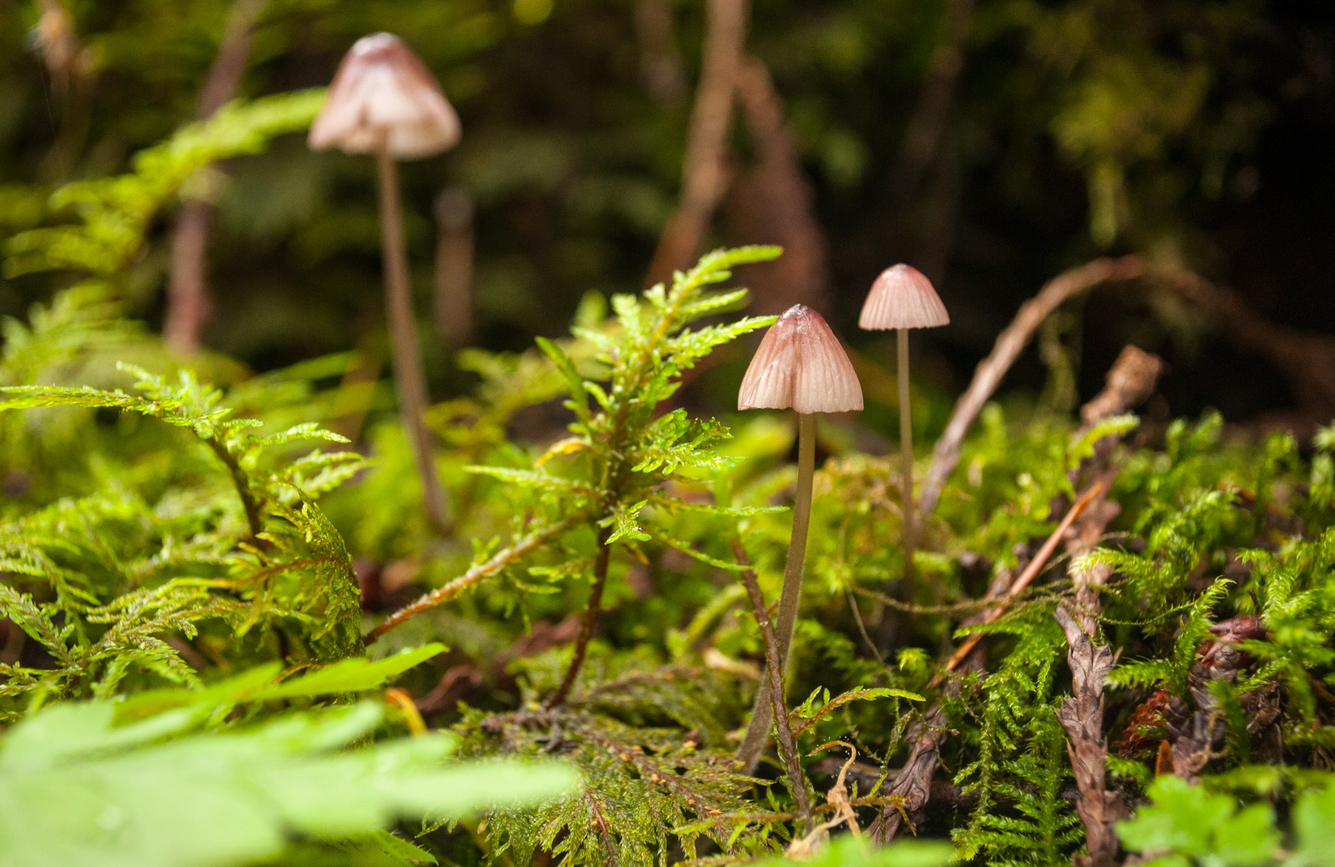
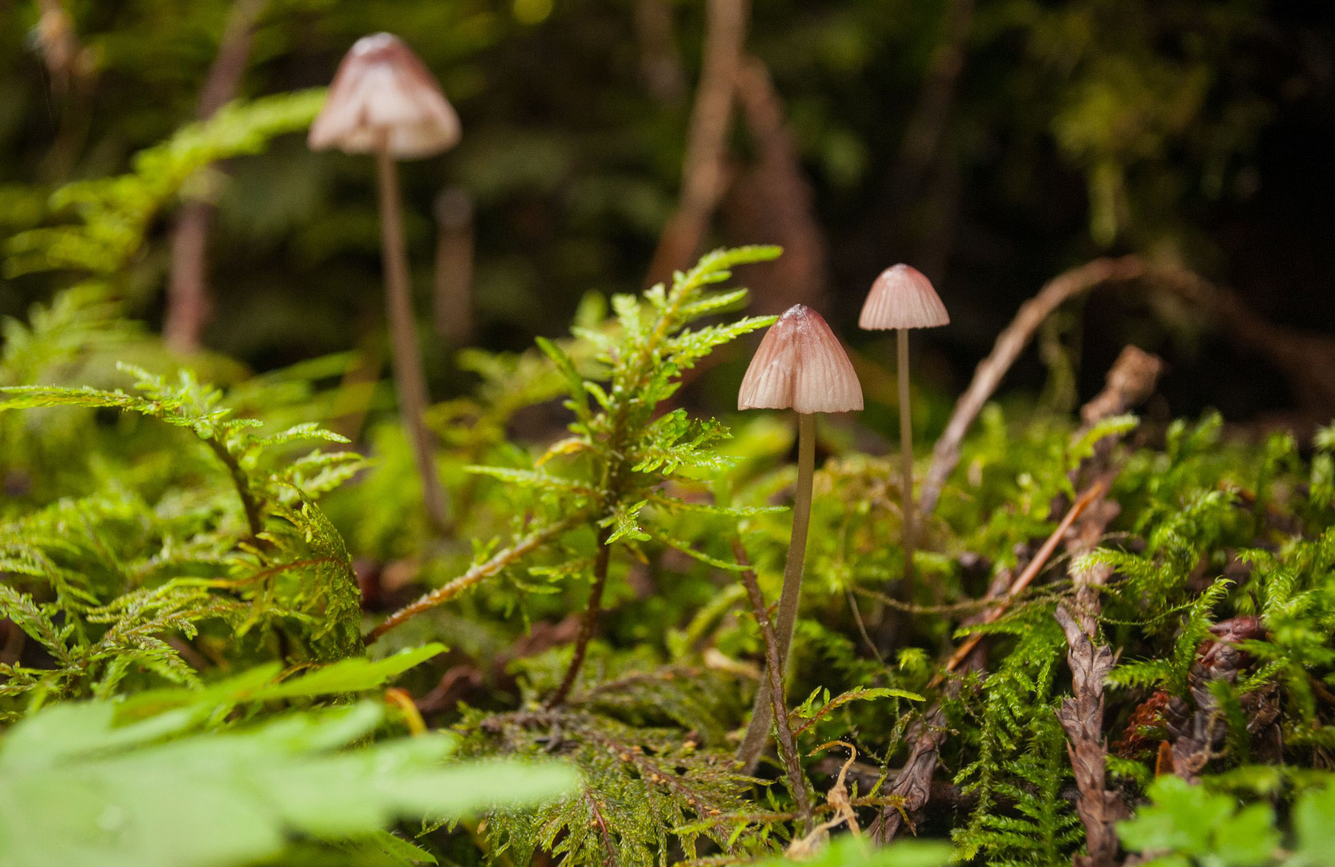
fixed background image

diff --git a/css/main.css b/css/main.css
@@ -134,7 +134,7 @@ a.selected{
 /*<--HOME-->*/
 
 #home{
-	background: url("../images/bg2.jpg") no-repeat center center fixed;	 
+	background: url("../images/bg.jpg") no-repeat center center fixed;	 
 	-webkit-background-size: cover;
   	-moz-background-size: cover;
   	-o-background-size: cover;
